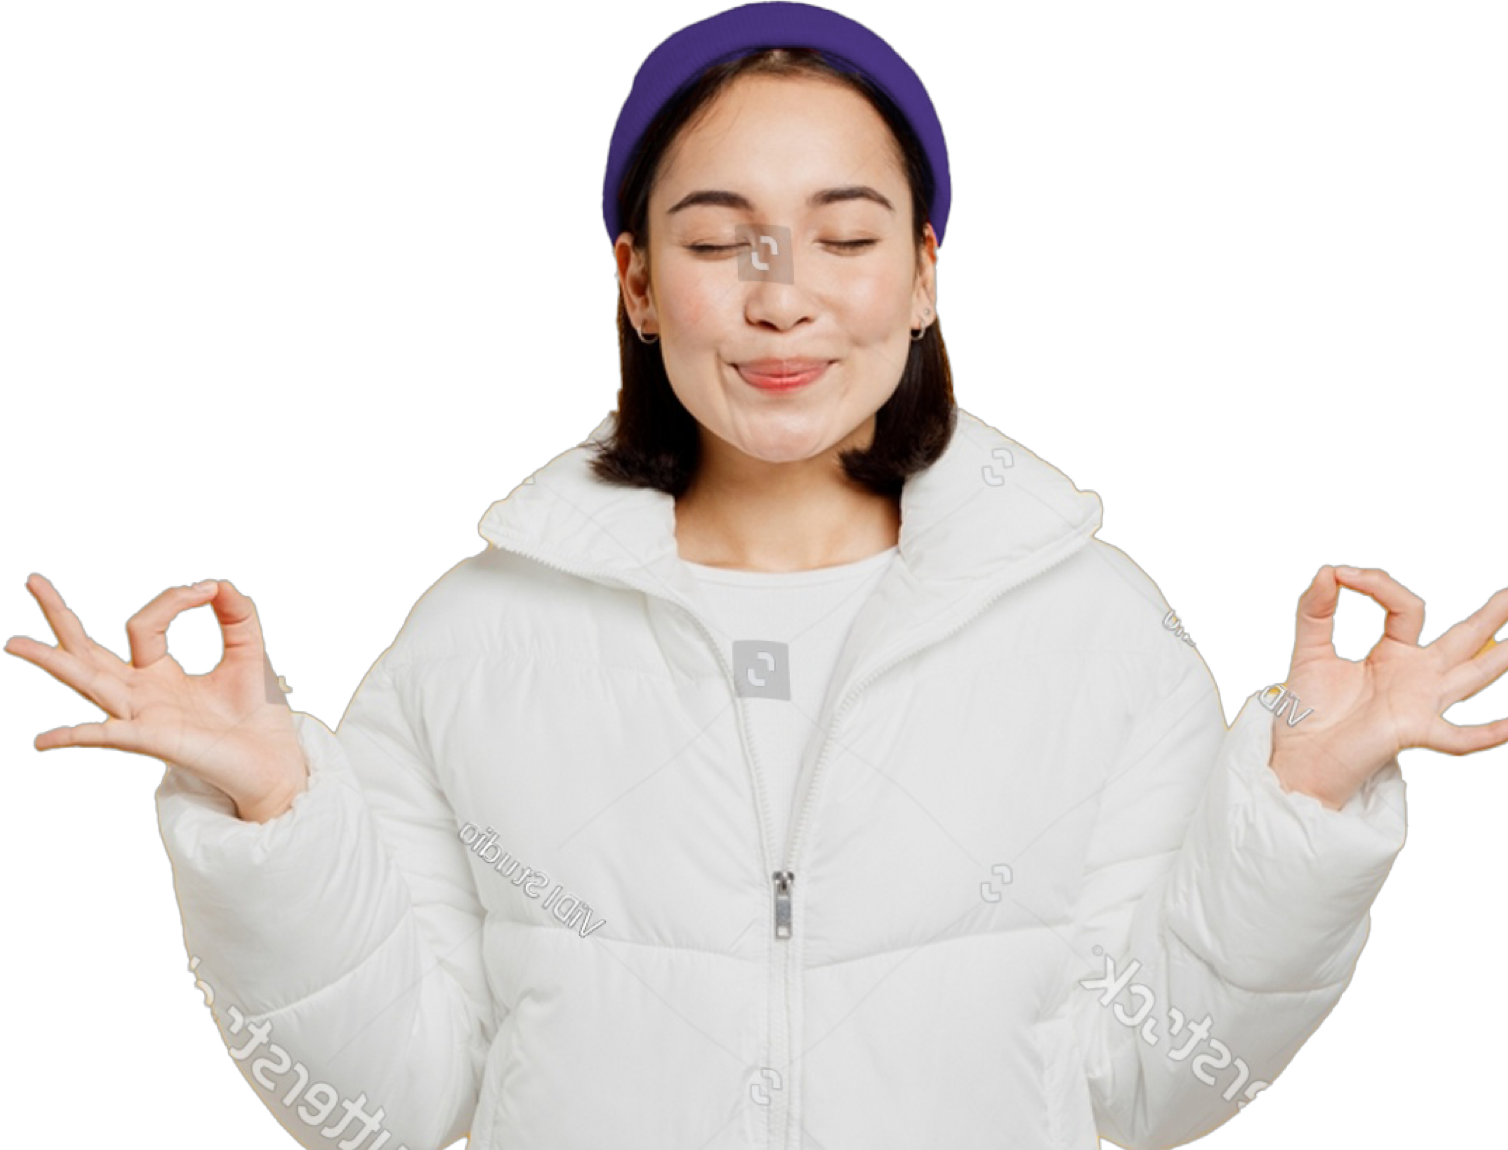
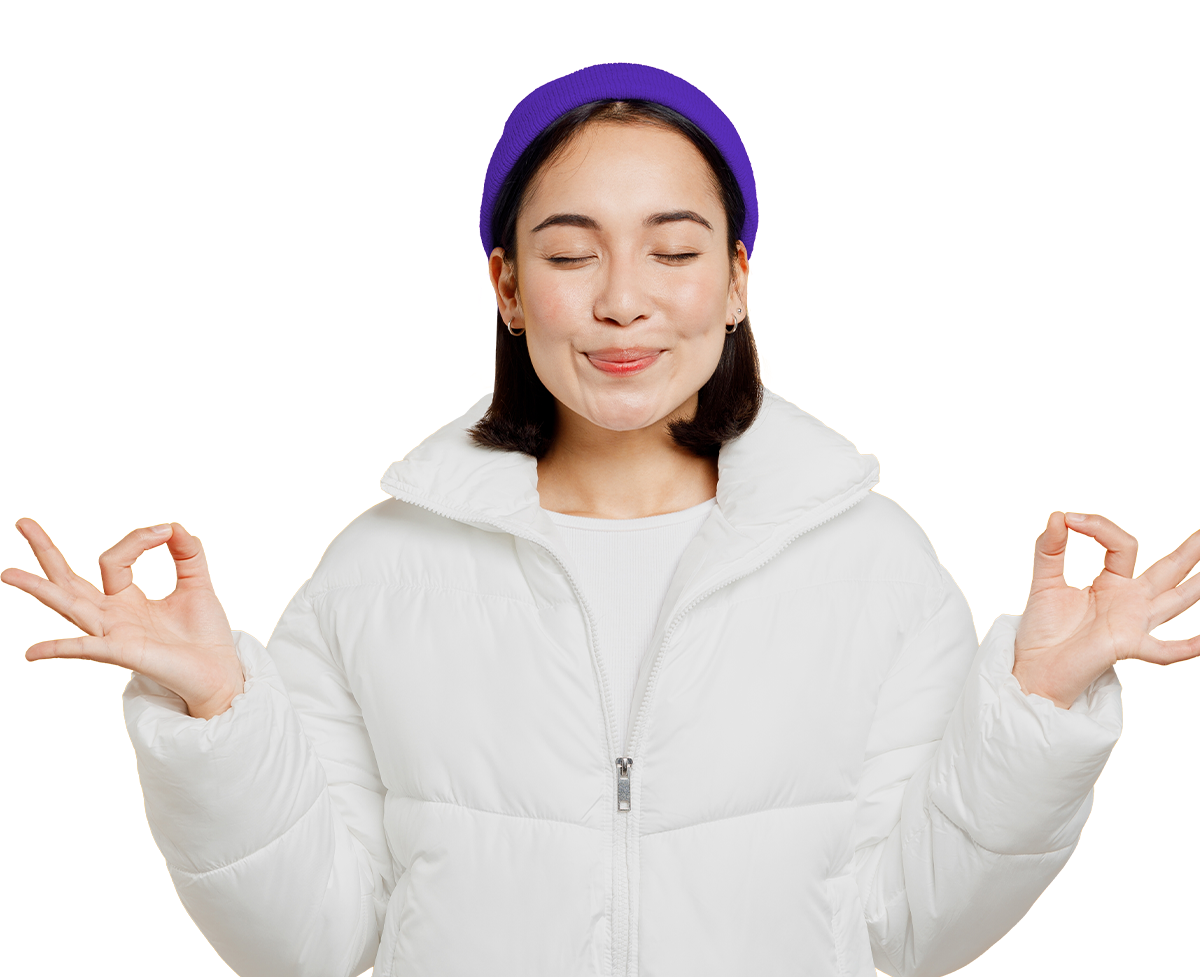
Adjust Testimonials section

diff --git a/css/tailwind.css b/css/tailwind.css
@@ -973,6 +973,14 @@ section {
   margin-bottom: 4rem !important;
 }
 
+.mb-52 {
+  margin-bottom: 13rem !important;
+}
+
+.mb-64 {
+  margin-bottom: 16rem !important;
+}
+
 .block {
   display: block !important;
 }
@@ -1594,6 +1602,10 @@ html {
 @media (min-width: 1280px) {
   .xl\:col-span-6 {
     grid-column: span 6 / span 6 !important;
+  }
+
+  .xl\:mt-24 {
+    margin-top: 6rem !important;
   }
 
   .xl\:pl-\[16\.6\%\] {

diff --git a/template-parts/student/testimonials.php b/template-parts/student/testimonials.php
@@ -6,7 +6,7 @@
                 
                 <?php if(have_rows('student_testimonial', 'option')) { ?>
                
-                    <div class="splide" id="testimonial-slider">
+                    <div class="splide mb-64" id="testimonial-slider">
                         <div class="splide__track">
                             <ul class="splide__list"> 
                                 <?php while( have_rows('student_testimonial', 'option') ) : the_row(); 
@@ -27,7 +27,7 @@
 
             </div>
             <div class="column lg:col-span-4 flex flex-col justify-end">
-                <img src="<?php echo get_stylesheet_directory_uri();?>/img/testimonial-photo.png" class="w-full h-auto hidden lg:block lg:mt-24">
+                <img src="<?php echo get_stylesheet_directory_uri();?>/img/testimonial-photo.png" class="w-full h-auto hidden lg:block">
                 <img src="<?php echo get_stylesheet_directory_uri();?>/img/testimonial-mobile.png" class="w-auto h-[50%] right-0 bottom-0 absolute lg:hidden">
             </div>
         </div>
